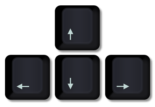
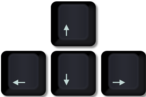
popup help done w images

Changed region(s): [[0.0, 0.0, 1.0, 1.0], [0.4384, 0.2474, 0.4932, 0.3402], [0.3836, 0.8351, 0.411, 0.866]]

diff --git a/Popup.py b/Popup.py
@@ -6,14 +6,17 @@ class Popup():
 		self.surface = surface
 		self.title = title
 		self.text = []
-		for i in range(len(text)//25):
-			self.text.append(text[i*25:i*25+25].strip())
-		self.text.append(text[len(text)//25*25:])
+		for i in range(len(text)//35):
+			self.text.append(text[i*35:i*35+35].strip())
+		self.text.append(text[len(text)//35*35:])
 		self.bg = image.load("res/popup.png")
 		self.x = image.load("res/x.png")
 		self.running = False
-		self.titleFont = font.Font("res/fonts/pricedown.ttf", 50)
-		self.bodyFont = font.Font("res/fonts/pricedown.ttf", 35)
+		self.titleFont = font.Font("res/fonts/pricedown.ttf", 40)
+		self.bodyFont = font.Font("res/fonts/pricedown.ttf", 27)
+		self.hasImage = False
+		self.imageFile = []
+		self.imageLoc = []
 
 	def render(self):
 		self.running = True
@@ -25,7 +28,15 @@ class Popup():
 			self.running = False
 		self.surface.blit(self.titleFont.render(self.title, 1, (0,0,0)), (self.surface.get_width()//2-self.titleFont.size(self.title)[0]//2, self.surface.get_height()//2-self.bg.get_height()//2+15))
 		for i in range(len(self.text)):
-			self.surface.blit(self.bodyFont.render(self.text[i], 1, (0,0,0)), (self.surface.get_width()//2-self.bodyFont.size(self.text[i])[0]//2, self.surface.get_height()//2-self.bg.get_height()//2+100+i*50))
+			self.surface.blit(self.bodyFont.render(self.text[i], 1, (0,0,0)), (self.surface.get_width()//2-self.bodyFont.size(self.text[i])[0]//2, self.surface.get_height()//2-self.bg.get_height()//2+75+i*35))
+		if self.hasImage:
+			for img in range(len(self.imageFile)):
+				self.surface.blit(self.imageFile[img], self.imageLoc[img])
 
 	def isRunning(self):
 		return self.running
+
+	def images(self, imgs, locs):
+		self.hasImage = True
+		self.imageFile = imgs
+		self.imageLoc = locs

diff --git a/Menu.py b/Menu.py
@@ -26,10 +26,10 @@ class Menu():
 		self.store = Store(surface)
 		self.level = Level(surface)
 		self.about = Popup(surface, "About", "Developed By Rikin Katyal ICS3U Final Project 2015 Made Using Python and Pygame")
+		self.help = Popup(surface, "Help", "Use arrow keys or WASD to move. Space for emergency break. Collect coins to spend in the store. Drive through obstacles and park in marked parking spot.")
+		self.help.images([image.load("res/arrows.png"), image.load("res/wasd.png"), image.load("res/coin_medium.png")],[(310,456),(470,450),(660,475)])
 		self.aboutRunning = False
 		self.helpRunning = False
-
-		# self.notRunning()
 
 	def render(self, down):
 		mx, my = mouse.get_pos()
@@ -56,7 +56,7 @@ class Menu():
 				if self.rightMenuX <= 590 and self.rightMenuY <= 350:
 					for r in range(len(self.options)):
 						# draw.rect(self.surface, (255,255,0), self.optionRects[r])
-						if self.optionRects[r].collidepoint((mx,my)) and not self.aboutRunning:
+						if self.optionRects[r].collidepoint((mx,my)) and not self.aboutRunning and not self.helpRunning:
 							self.optionColors[r] = (0,0,0)
 							if mb[0]:
 								self.optionResults[r]()
@@ -73,6 +73,9 @@ class Menu():
 		if self.aboutRunning:
 			self.about.render()
 			self.aboutRunning = self.about.isRunning()
+		elif self.helpRunning:
+			self.help.render()
+			self.helpRunning = self.help.isRunning()
 
 	def isRunning(self):
 		return self.running
